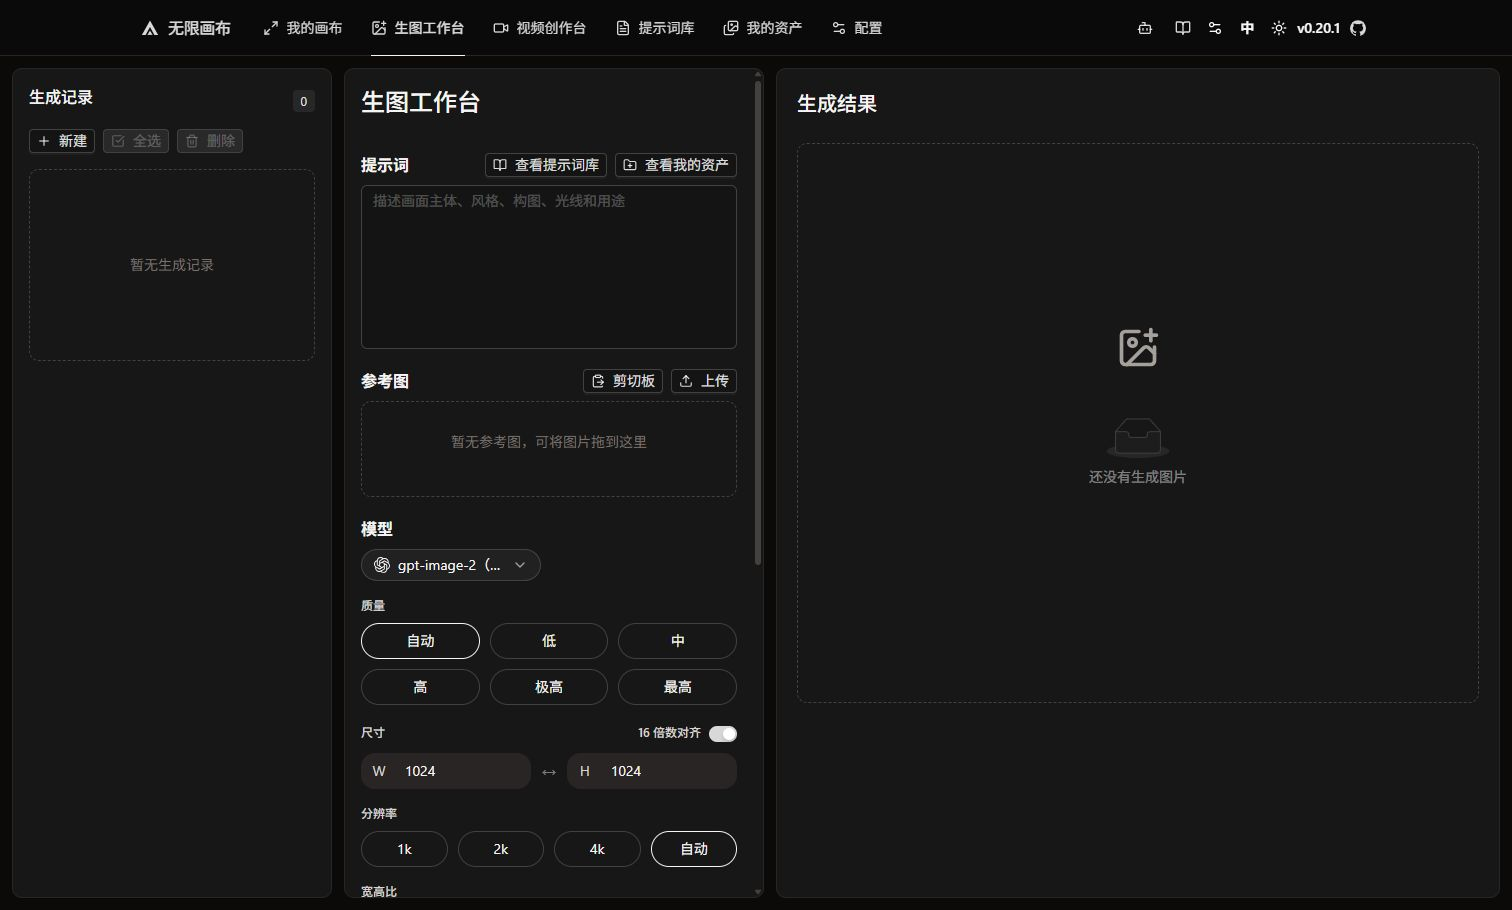
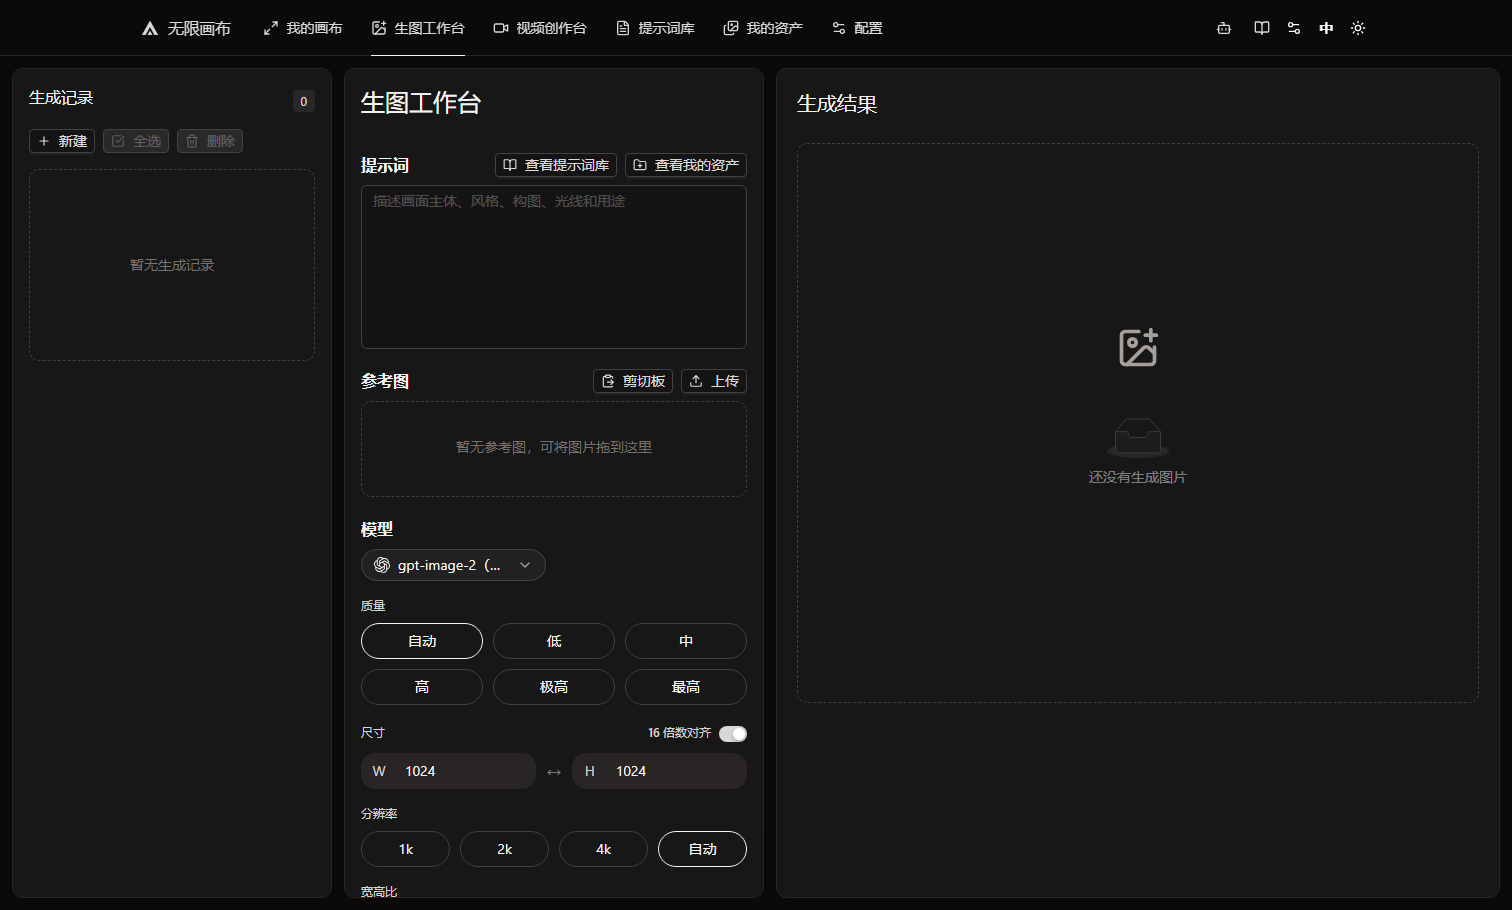
Remove header version and GitHub shortcuts

diff --git a/web/src/components/layout/user-status-actions.tsx b/web/src/components/layout/user-status-actions.tsx
@@ -4,11 +4,8 @@ import { BookOpen, Keyboard, Puzzle, Settings2 } from "lucide-react";
 import { useTranslation } from "react-i18next";
 
 import { AnimatedThemeToggler } from "@/components/ui/animated-theme-toggler";
-import { GitHubLink } from "@/components/layout/github-link";
-import { VersionReleaseModal } from "@/components/layout/version-release-modal";
 import { DOCS_URL } from "@/constant/env";
 import { changeAppLocale, type AppLocale } from "@/i18n";
-import { cn } from "@/lib/utils";
 import { canvasThemes } from "@/lib/canvas-theme";
 import { useConfigStore } from "@/stores/use-config-store";
 import { useThemeStore } from "@/stores/use-theme-store";
@@ -28,9 +25,6 @@ export function UserStatusActions({ showConfig = true, variant = "default", onOp
     const canvasTheme = canvasThemes[theme];
     const naturalIconClass = "inline-flex size-7 shrink-0 cursor-pointer items-center justify-center rounded-md text-stone-600 transition-colors hover:bg-black/5 hover:text-stone-950 dark:text-stone-300 dark:hover:bg-white/10 dark:hover:text-white [&_svg]:size-4";
     const iconStyle: CSSProperties | undefined = variant === "canvas" ? { color: canvasTheme.node.text } : undefined;
-    const versionStyle = iconStyle;
-    const gitHubClassName = "size-7 text-base";
-    const gitHubStyle = iconStyle;
     const locale = i18n.resolvedLanguage as AppLocale;
     const nextLocale = locale === "zh-CN" ? "en-US" : "zh-CN";
     const languageLabel = t("topNav.switchLanguage", { language: t(nextLocale === "zh-CN" ? "locale.zhCN" : "locale.enUS") });
@@ -56,8 +50,6 @@ export function UserStatusActions({ showConfig = true, variant = "default", onOp
                 </button>
             </Tooltip>
             <AnimatedThemeToggler theme={theme} onThemeChange={setTheme} className={naturalIconClass} style={iconStyle} aria-label={t(theme === "dark" ? "topNav.lightTheme" : "topNav.darkTheme")} title={t(theme === "dark" ? "topNav.lightTheme" : "topNav.darkTheme")} />
-            <VersionReleaseModal style={versionStyle} />
-            <GitHubLink className={cn("bg-transparent hover:bg-transparent dark:hover:bg-transparent", gitHubClassName)} style={gitHubStyle} />
             {onOpenShortcuts ? (
                 <button type="button" className={naturalIconClass} style={iconStyle} onClick={onOpenShortcuts} aria-label={t("topNav.shortcuts")} title={t("topNav.shortcuts")}>
                     <Keyboard className="size-4" />

diff --git a/web/src/i18n/locales/en-US.ts b/web/src/i18n/locales/en-US.ts
@@ -353,22 +353,6 @@ export default {
         showcaseDescription: "Save reliable prompts, visual references, and generated images so your next creation starts from proven ideas.",
         viewPrompts: "View prompt library",
     },
-    version: {
-        viewUpdates: "View release updates",
-        title: "Release updates",
-        currentVersion: "Current version",
-        latestVersion: "Latest version",
-        checking: "Checking...",
-        checkUpdates: "Check for updates",
-        unreleased: "Unreleased",
-        latest: "Latest",
-        current: "Current",
-        readFailed: "Failed to read version",
-        changelogFailed: "Failed to read changelog",
-        updated: "Latest version information loaded",
-        updateFailed: "Failed to load the latest version information",
-        types: { added: "Added", fixed: "Fixed", changed: "Changed", optimized: "Optimized", docs: "Docs" },
-    },
     config: {
         title: "Settings & Preferences",
         invalidFile: "The settings file format is invalid",

diff --git a/web/src/i18n/locales/zh-CN.ts b/web/src/i18n/locales/zh-CN.ts
@@ -353,22 +353,6 @@ export default {
         showcaseDescription: "收藏稳定出图的提示词、参考风格和结果图片，让下一次创作从已有经验开始。",
         viewPrompts: "查看提示词库",
     },
-    version: {
-        viewUpdates: "查看版本更新",
-        title: "版本更新",
-        currentVersion: "当前版本",
-        latestVersion: "最新版本",
-        checking: "检查中...",
-        checkUpdates: "检查更新",
-        unreleased: "未发布",
-        latest: "最新",
-        current: "当前",
-        readFailed: "版本读取失败",
-        changelogFailed: "更新日志读取失败",
-        updated: "已获取最新版本信息",
-        updateFailed: "获取最新版本信息失败",
-        types: { added: "新增", fixed: "修复", changed: "调整", optimized: "优化", docs: "文档" },
-    },
     config: {
         title: "配置与用户偏好",
         invalidFile: "配置文件格式不正确",

diff --git a/web/vite.config.ts b/web/vite.config.ts
@@ -4,11 +4,8 @@ import { fileURLToPath } from "node:url";
 import react from "@vitejs/plugin-react";
 import { defineConfig, type Plugin } from "vite";
 
-import { parseChangelog } from "./src/lib/release";
-
 const webDir = dirname(fileURLToPath(import.meta.url));
 const localVersion = readFileSync(resolve(webDir, "../VERSION"), "utf8").trim() || "dev";
-const localChangelog = readFileSync(resolve(webDir, "../CHANGELOG.md"), "utf8");
 
 // Expose /plugins/index.json with local plugin files from public/plugins.
 // The frontend can discover and list them when enabled; development reads the directory live, while builds emit a static registry.
@@ -49,6 +46,5 @@ export default defineConfig({
     },
     define: {
         __APP_VERSION__: JSON.stringify(localVersion),
-        __APP_RELEASES__: JSON.stringify(parseChangelog(localChangelog)),
     },
 });

diff --git a/web/src/vite-env.d.ts b/web/src/vite-env.d.ts
@@ -1,7 +1,6 @@
 /// <reference types="vite/client" />
 
 declare const __APP_VERSION__: string;
-declare const __APP_RELEASES__: import("@/lib/release").ReleaseInfo[];
 
 interface ImportMetaEnv {
     // Comma-separated local development plugin URLs, refetched on every startup without caching or persistence.

diff --git a/docs/DESKTOP_RELEASE.md b/docs/DESKTOP_RELEASE.md
@@ -1,5 +1,7 @@
 OneYes Canvas 桌面分支，基于 basketikun/infinite-canvas v0.20.0，保留原作者与 MIT 许可。
 
+本次调整：移除顶栏版本号、版本更新弹窗与 GitHub 入口，停止请求上游版本和更新日志。
+
 - 预置 OneYes 渠道，填写自己的 Key 即可接入，支持获取当前 Key 可用模型。
 - OneYes 文生图、参考图编辑使用 SSE 流式传输，生图工作台可显示中间预览。
 - 断流、524 不自动重放付费请求；桌面配置本机 AES-GCM 加密，不调用 macOS 钥匙串。

diff --git a/CHANGELOG.md b/CHANGELOG.md
@@ -2,6 +2,10 @@
 
 ## Unreleased
 
+## v0.20.3
+
++ [调整] 移除顶栏的版本更新与 GitHub 入口，并停止后台版本检查。
+
 ## v0.20.2
 
 + [新增] OneYes 公开分支桌面版，提供 Windows、macOS、Linux 的 x64 / ARM64 安装包。
